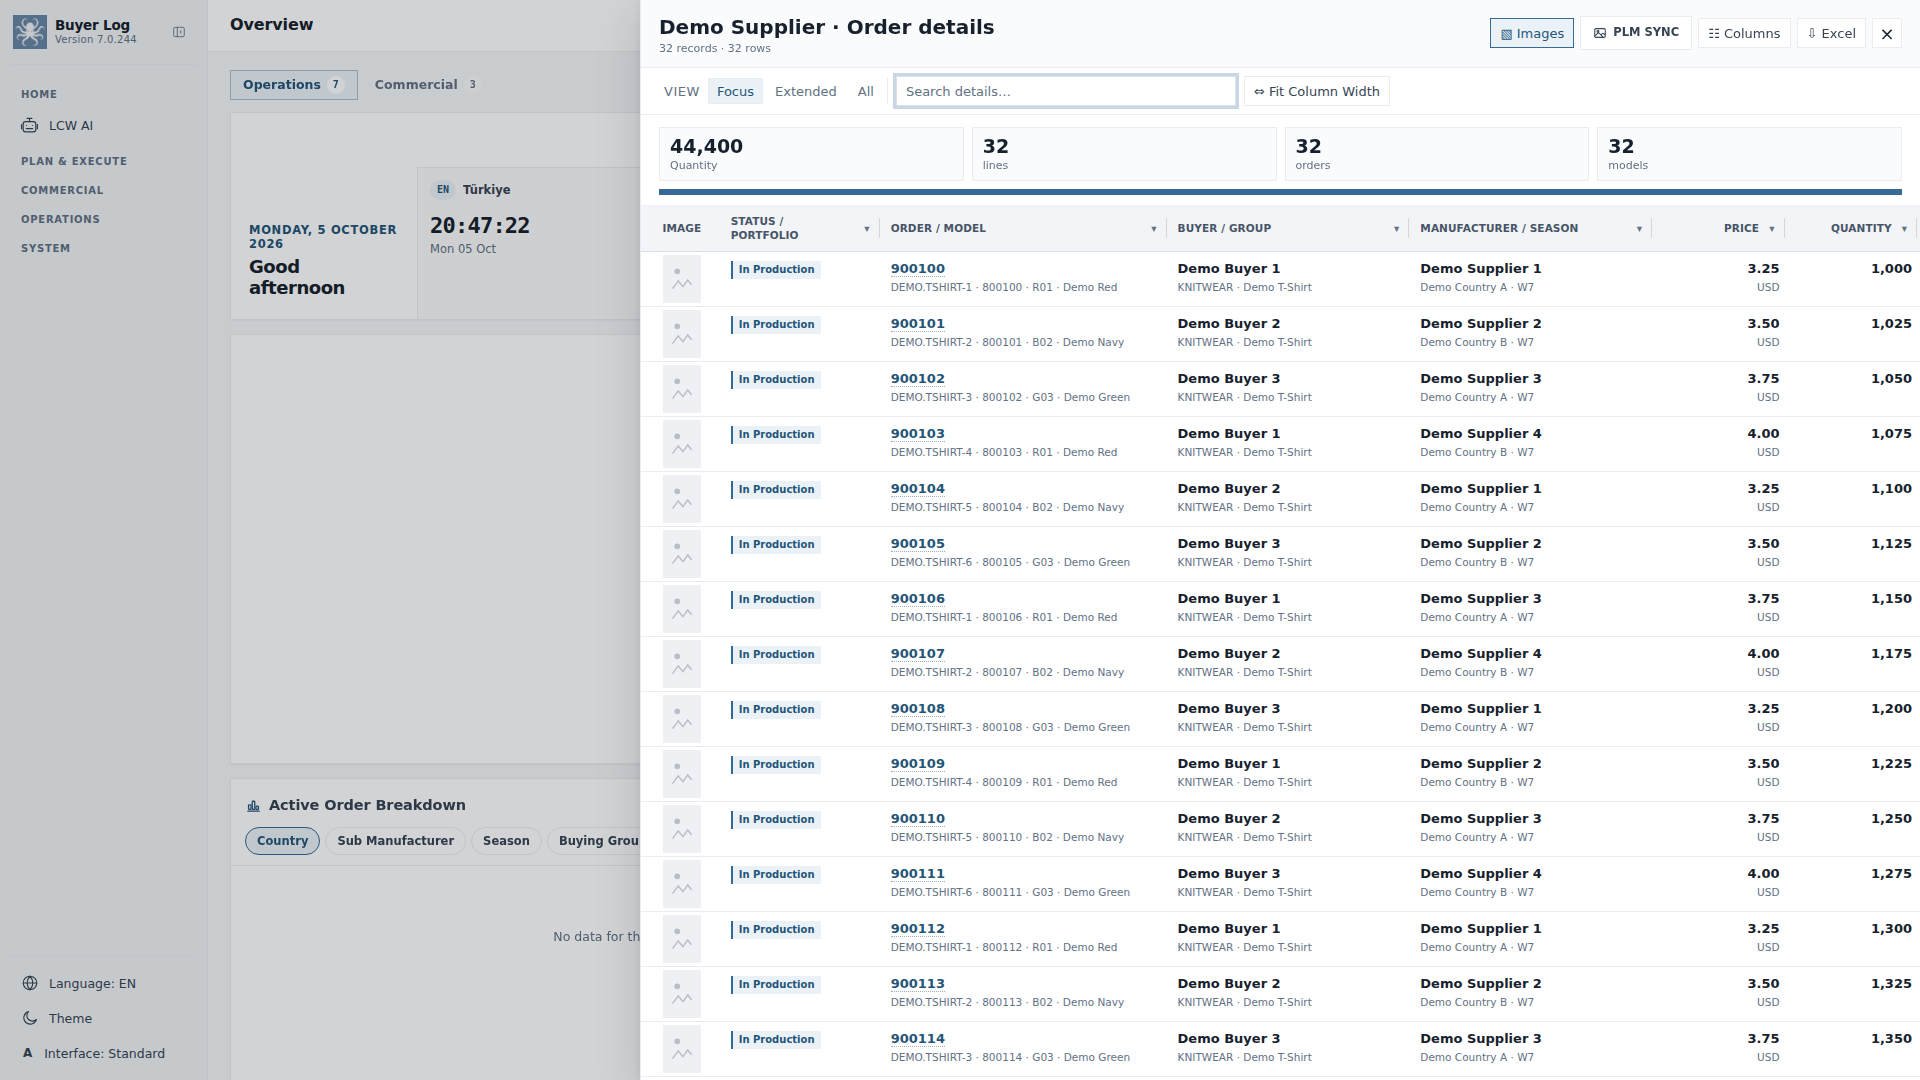
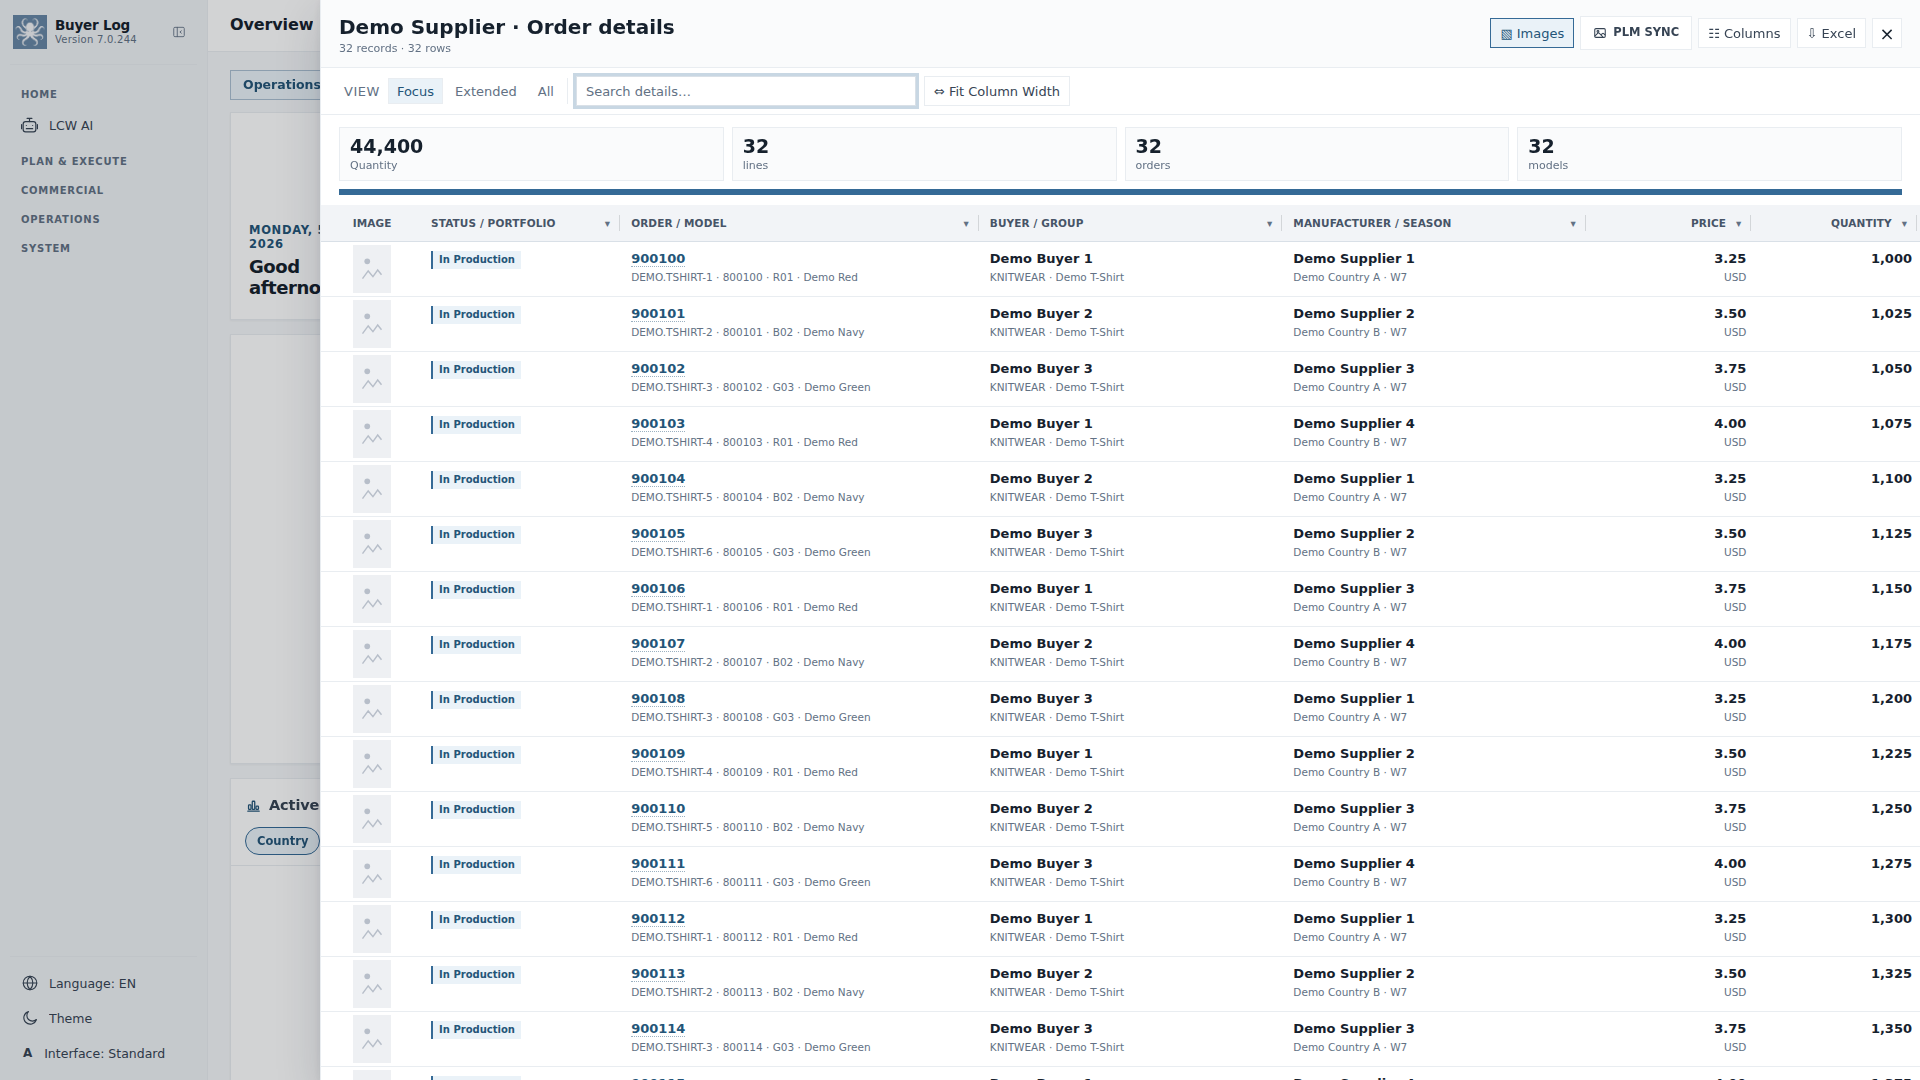
fix: start Backlog reports wider and reset legacy drawer widths

diff --git a/resources/app/public/detail-drawer.js b/resources/app/public/detail-drawer.js
@@ -10,7 +10,7 @@
 'use strict';
 
 const PREF_PREFIX='buyerlog.detailDrawer.report.columns.v1.';
-const WIDTH_PREFIX='buyerlog.detailDrawer.width.';
+const WIDTH_PREFIX='buyerlog.detailDrawer.report.width.v1.';
 const COL_WIDTH_PREFIX='buyerlog.detailDrawer.report.colWidths.v1.';
 const PRESET_PREFIX='buyerlog.detailDrawer.report.preset.v1.';
 // Sütun genişliği sınırları: uzun başlık sarılır, sütunu genişletmez.
@@ -729,7 +729,7 @@ function open(options){
     scope,pageScope:page,moduleId:input.moduleId||page,source:input.source||'shared-detail-drawer',
     title:clean(input.title)||L('Sipariş Detayları','Order Details'),
     subtitle:clean(input.subtitle),note:clean(input.note),fileName:input.fileName||input.title,
-    rows,columns,visible:initialVisible.filter(key=>allowed.has(key)),width:loadWidth(page)||Math.min(1280,root.innerWidth*0.96),
+    rows,columns,visible:initialVisible.filter(key=>allowed.has(key)),width:loadWidth(page)||Math.min(1600,root.innerWidth*0.96),
     tableSetup:null,viewPresets,contextKeys,preset,
     colWidths:loadColWidths(scope,page),autoWidths:null,filters:new Map(),filterVersion:0,
     images:input.images!==false,search:'',limit:RENDER_CHUNK,searchIndex:null,filterCache:null,searchTimer:0,actions:Array.isArray(input.actions)?input.actions:[],

diff --git a/resources/app/public/detail-drawer.css b/resources/app/public/detail-drawer.css
@@ -50,7 +50,7 @@
 
 /* Backlog report language: summary cards, stacked identities and readable rows.
    Independent of CP density and inherited column widths. */
-.blDetailDrawerPanel{width:min(1280px,96vw);box-shadow:var(--shadow-3)}
+.blDetailDrawerPanel{width:min(1600px,96vw);box-shadow:var(--shadow-3)}
 .blDetailDrawerHead{padding:16px 18px 12px}
 .blDetailDrawerTitle b{font:700 20px/1.15 var(--heading,var(--font))}
 .blDetailDrawerTitle span{font-size:11px}
